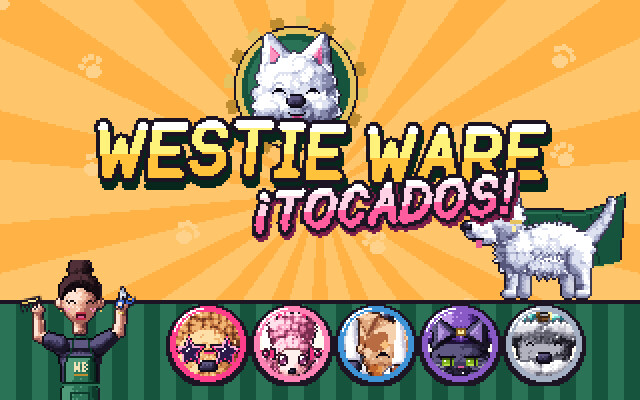
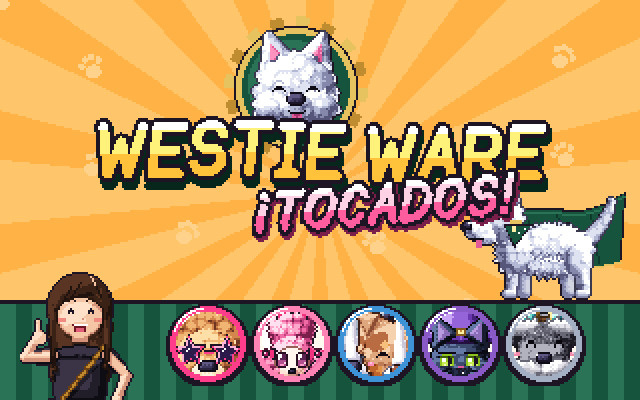
Update WESTIE WARE: Keiko, 52 microgames and the new bosses

diff --git a/data.js b/data.js
@@ -858,7 +858,7 @@ const GAMES = [
   {
     "name": "westieware",
     "title": "🐶 WESTIE WARE ¡Tocados!",
-    "tagline": "WarioWare: Touched! en la peluquería canina Westie BLVRD de Anahí Gavilán: 31 microjuegos de 4 segundos (toca, frota, corta, dibuja, arrastra y gira), 7 jefes, historias, dos pantallas en vertical para el móvil y pixel art hecho a mano.",
+    "tagline": "WarioWare: Touched! en Westie BLVRD, la peluquería canina de Anahí Gavilán, con su westie Keiko de mascota: 52 microjuegos de 4 segundos (toca, frota, corta, dibuja, arrastra y gira), 7 jefes con Hacienda y «¡Prepara el perro!», historias, dos pantallas en vertical para el móvil y pixel art hecho a mano.",
     "type": "web",
     "play": "https://gavilanbe.github.io/westieware/",
     "repo": "https://github.com/gavilanbe/westieware",
